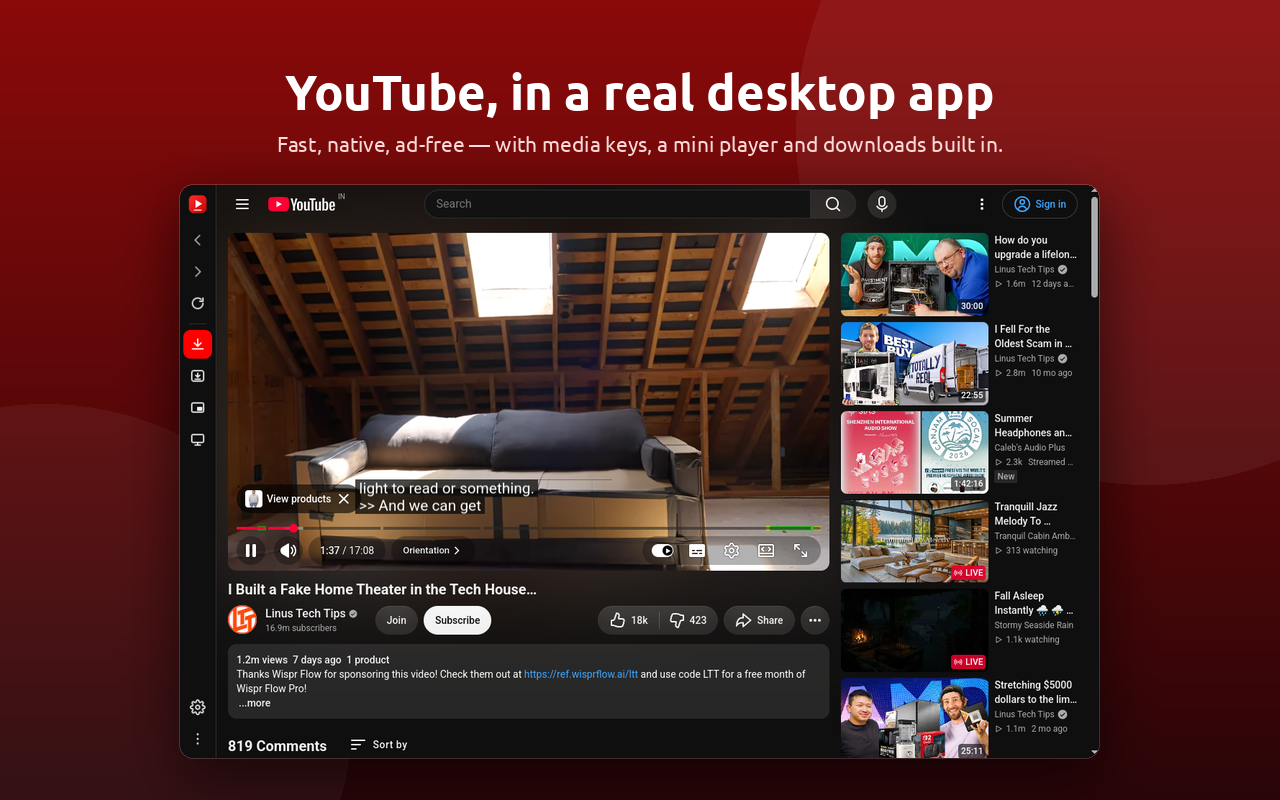
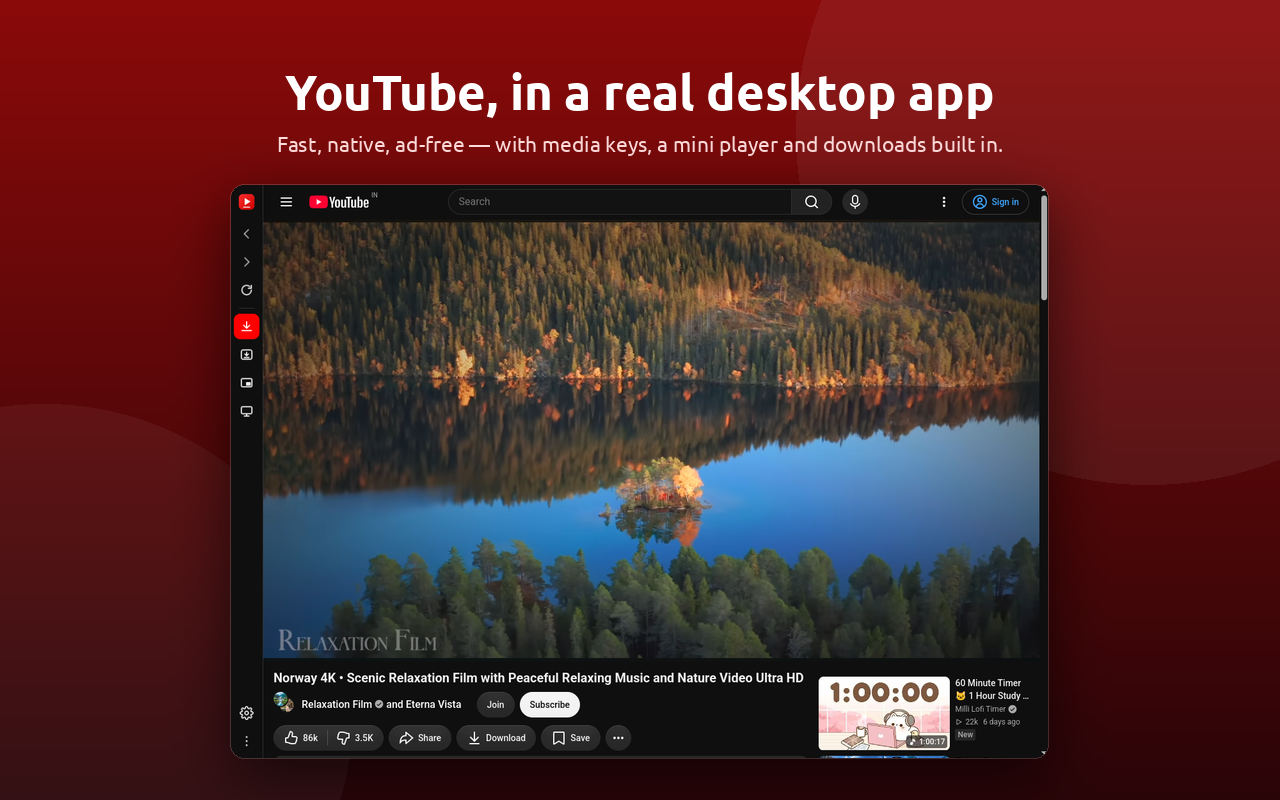
docs: cleaner hero screenshot
A scenic 4K film in theater layout, controls faded, no captions or
overlays. RED_DEBUG_WINDOW_SIZE=WxH sizes the window for grabs (ADR-010).

diff --git a/src/main.cpp b/src/main.cpp
@@ -151,6 +151,11 @@ int main(int argc, char* argv[])
     const red::app::CliOptions& cli = app.cliOptions();
     window.start(cli.tvMode);
 
+    // Developer aid: RED_DEBUG_WINDOW_SIZE=WxH sizes the window for a grab.
+    if (const QString size = qEnvironmentVariable("RED_DEBUG_WINDOW_SIZE"); size.contains(u'x')) {
+        window.resize(size.section(u'x', 0, 0).toInt(), size.section(u'x', 1, 1).toInt());
+    }
+
     // Developer aid: RED_DEBUG_OPEN=about|shortcuts|tray opens that screen
     // once the window is up (ADR-010).
     if (qEnvironmentVariableIsSet("RED_DEBUG_OPEN")) {
